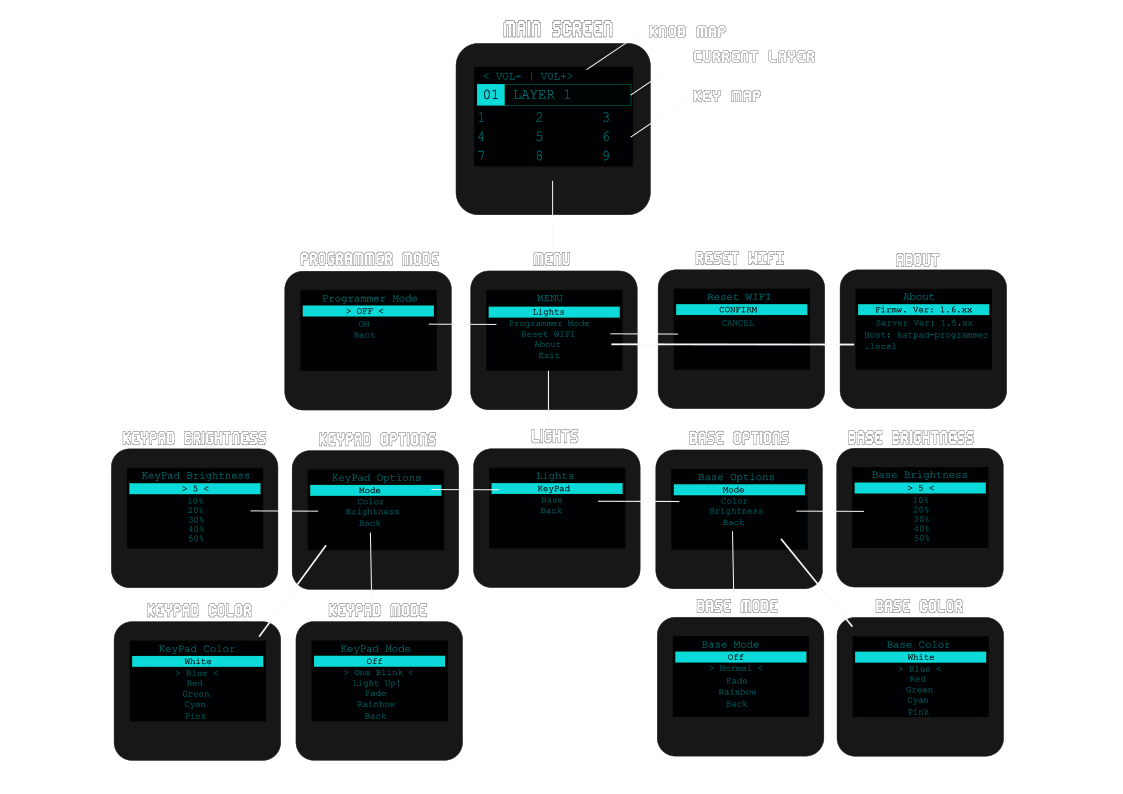
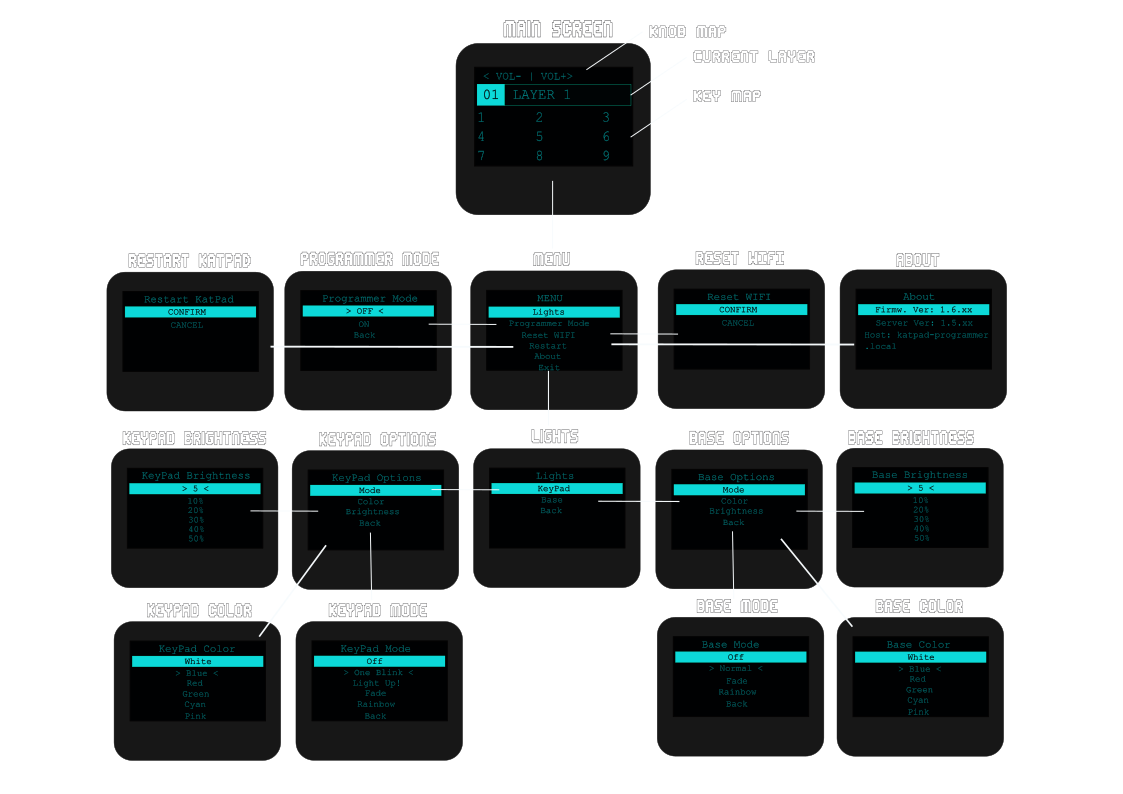
basics and screens

Changed region(s): [[0.0935, 0.3023, 0.374, 0.5441], [0.4675, 0.4232, 0.4987, 0.4534]]

diff --git a/css/customstyles.css b/css/customstyles.css
@@ -1190,3 +1190,83 @@ h4.panel-title {
         display:block !important;
     }
 }
+
+/* IMAGES */
+.img-enlargeble {
+    transition:transform 0.25s ease;
+}
+
+.img-enlargeble > img:hover {
+    -webkit-transform:scale(1.5); /* or some other value */
+    transform:scale(1.5);
+}
+
+#rightImage {
+  height:1275px;
+  float:left;
+  position:relative;
+}
+
+#rightImage:hover img {
+  height: 1300px;
+}
+
+
+.image {
+		border: 0;
+		display: inline-block;
+		position: relative;
+
+		img {
+			display: block;
+		}
+
+		&.left,
+		&.right {
+			max-width: 30%;
+
+			img {
+				width: 100%;
+			}
+		}
+
+		&.left {
+			float: left;
+			margin: 0 1.5em 1.25em 0;
+			top: 0.25em;
+		}
+
+		&.right {
+			float: right;
+			margin: 0 0 1.25em 1.5em;
+			top: 0.25em;
+		}
+
+		&.fit {
+			display: block;
+			margin: 0 0 _size(element-margin) 0;
+			width: 100%;
+
+			img {
+				width: 100%;
+			}
+		}
+
+		&.main {
+			display: block;
+			margin: (_size(element-margin) * 1.25) 0;
+			width: 100%;
+
+			img {
+				width: 500px;
+			}
+
+			@include breakpoint(small) {
+				margin: (_size(element-margin) * 0.75) 0;
+			}
+		}
+	}
+
+p {
+    margin: 0 0 _size(element-margin) 0;
+}

diff --git a/index.md b/index.md
@@ -40,11 +40,13 @@ First, plug your KatPad on your computer. Then, after the splash screen:
 ![config wifi](/images/katpad-settings-configwifi.png){:width="640"}
 
 
-6 - On Wi-Fi > Wi-Fi Network inform your network name (SSID) and the password, then `Save`. Your KatPadt will restart.
+6 - On `Wi-Fi > Wi-Fi Network` inform your network name (SSID) and the password, then `Save`. Your KatPadt will restart.
 
 7 - After the splash screen, go to `Settings > Programmer Mode` and select `ON`. You'll be back to the main screen and you can see in the top: `Connecting...`. It can take some time.
 
 8 - If the status changes to `PROGRAMMER MODE`, means that your WiFi was configured with success, you're good to go.
+
+9 - Now you can try to access: [http://katpad-programmer.local/](http://katpad-programmer.local/) and create your first macro!
 
 
 {% include tip.html content="If the KatPad is taking too long to connect, verify the distance to the modem, it can't be so far." %}
@@ -52,17 +54,168 @@ First, plug your KatPad on your computer. Then, after the splash screen:
 {% include note.html content="KATPAD-WIFI-AP is the Access Point created by the KatPad to configure your macropad for the first time. It doesn't intend to be used normally since your computer won't access the internet" %}
 
 
-### 2. KatPad Screen Map  
+### 2. Knowing your KatPad  
 
 ![KatPad Map](/images/katpad-screen-06.png){:width="740"}
 
+Let's start with the basics!
+Your KatPad has an OLED screen, a keypad and a knob.
+The knob has some important functions:
 
-Your KatPad has a OLED screen to assist you with information such as current layer, layer's key map, knob map, status and settings.
-Bellow you can find a quick map of the screen.
+1 - `Single Press`: it goes to the next layer when in the main screen or, when in the MENU, is used to choose an option.
 
-![KatPad Map](/images/katpad-screen-map-01.png){:width="1040"}
+2 - `Long Press` (hold for about ~2 sec): you enter in the MENU.
+
+3 - `Rotation`: When in the main screen, is used as a normal key, you can map the clockwise and the counter clockwise direction! For example, you can map the volume, zoom for the desired application or any other key or macro.
+
+In the other hand, when in the MENU, it's used to navigate among the options.
 
 
+
+### 3. OLED Screen  
+
+Your KatPad has an OLED screen to assist you with information such as current layer, layer's key map, knob map, status and menu settings.
+
+Bellow you can find a quick screen map.
+
+<!-- ![KatPad Map](/images/katpad-screen-map-01.png){:width="1040"} -->
+<div class="img-enlargeble">
+<a href="/images/katpad-screen-map-01.png">
+    <img src="/images/katpad-screen-map-01.png" width="880" />
+</a>
+</div>
+
+
+#### 3.1. Main Screen
+
+<p><span class="image left">
+<img src="/images/katpad-main-screen.png" alt=""/>
+</span>
+<br><br>
+The main screen you have all you need to know when using the KatPad: knob map, current layer and keys map.
+</p>
+<br><br><br>
+
+<p><span class="image right">
+<img src="/images/katpad-menu-screen.png" alt="" />
+</span>
+<br><br>
+In the 1st screen of the menu you can find all options available: lights, Programmer Mode, Reset WIFI, Restart and About
+</p>
+
+<!-- ![KatPad Screen](/images/katpad-main-screen.png){:width="350"}
+
+The main screen you have all you need to know when using the KatPad: knob map, current layer and keys map.
+
+
+#### 3.2. Menu Options
+![KatPad Screen](/images/katpad-menu-screen.png){:width="300"}
+
+In the 1st screen of the menu you can find all options available: lights, Programmer Mode, Reset WIFI, Restart and About -->
+<br><br><br><br><br>
+
+<p><span class="image left">
+<img src="/images/katpad-lights-screen.png" alt=""/>
+</span>
+<br><br>
+The main screen you have all you need to know when using the KatPad: knob map, current layer and keys map.
+</p>
+<br><br><br><br><br>
+
+<p><span class="image right">
+<img src="/images/katpad-lights-opt-screen.png" alt="" />
+</span>
+<br><br>
+In the 1st screen of the menu you can find all options available: lights, Programmer Mode, Reset WIFI, Restart and About
+</p>
+
+<!-- #### 3.2.1 Lights
+![KatPad Screen](/images/katpad-lights-screen.png){:width="300"}
+
+
+#### 3.2.2 Lights Option
+![KatPad Screen](/images/katpad-lights-opt-screen.png){:width="300"}
+ -->
+
+ <br><br><br><br><br>
+ <p><span class="image left">
+ <img src="/images/katpad-lights-mode-screen.png" alt=""/>
+ <img src="/images/katpad-base-mode-screen.png" alt="" />
+ </span>
+ <br><br>
+ The main screen you have all you need to know when using the KatPad: knob map, current layer and keys map.
+ </p>
+ <br><br><br><br><br>
+ <br><br><br><br><br>
+ <p><span class="image right">
+ <img src="/images/katpad-light-color-screen.png" alt="" />
+ <img src="/images/katpad-base-color-screen.png" alt="" />
+ </span>
+ <br><br>
+ In the 1st screen of the menu you can find all options available: lights, Programmer Mode, Reset WIFI, Restart and About
+ </p>
+
+<!-- #### 3.2.3 Lights Mode
+![KatPad Screen](/images/katpad-lights-mode-screen.png){:width="300"}
+![KatPad Screen](/images/katpad-base-mode-screen.png){:width="300"} -->
+
+<!-- #### 3.2.4 Lights Color
+![KatPad Screen](/images/katpad-light-color-screen.png){:width="300"}
+![KatPad Screen](/images/katpad-base-color-screen.png){:width="300"} -->
+
+
+<br><br><br><br><br><br><br><br><br><br>
+
+<p><span class="image left">
+<img src="/images/katpad-light-bright-screen.png" alt=""/>
+<img src="/images/katpad-base-bright-screen.png" alt=""/>
+</span>
+<br><br>
+The main screen you have all you need to know when using the KatPad: knob map, current layer and keys map.
+</p>
+<br><br><br><br><br><br><br><br><br><br>
+
+<p><span class="image right">
+<img src="/images/katpad-prog-mode-screen.png" alt="" />
+</span>
+<br><br>
+In the 1st screen of the menu you can find all options available: lights, Programmer Mode, Reset WIFI, Restart and About
+</p>
+<!--
+#### 3.2.5 Lights Brightness
+![KatPad Screen](/images/katpad-light-bright-screen.png){:width="300"}
+![KatPad Screen](/images/katpad-base-bright-screen.png){:width="300"}
+
+
+#### 3.3. Programmer Mode
+![KatPad Screen](/images/katpad-prog-mode-screen.png){:width="300"}
+ -->
+
+ <br><br><br><br><br>
+
+ <p><span class="image left">
+ <img src="/images/katpad-reset-wifi-screen.png" alt=""/>
+ </span>
+ <br><br>
+ The main screen you have all you need to know when using the KatPad: knob map, current layer and keys map.
+ </p>
+ <br><br><br><br><br>
+
+ <p><span class="image right">
+ <img src="/images/katpad-restart-screen.png" alt="" />
+ </span>
+ <br><br>
+ In the 1st screen of the menu you can find all options available: lights, Programmer Mode, Reset WIFI, Restart and About
+ </p>
+ <br><br><br><br><br>
+
+ <p><span class="image left">
+ <img src="/images/katpad-about-screen.png" alt=""/>
+ </span>
+ <br><br>
+ The main screen you have all you need to know when using the KatPad: knob map, current layer and keys map.
+ </p>
+ <br><br><br><br><br>
 
 
 <!-- ### 2. Install Jekyll
